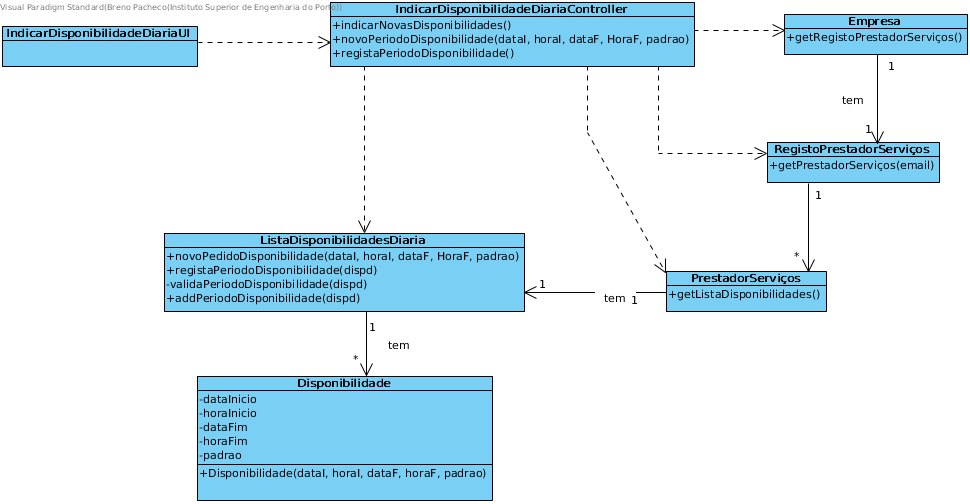
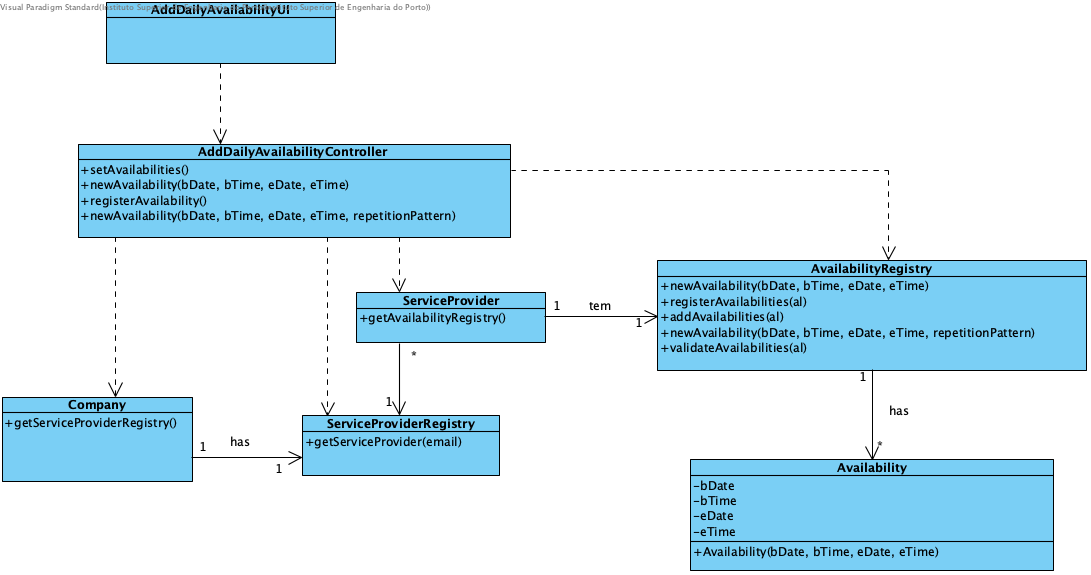
UC wiki documentation complete [UC-09][Documentation]

diff --git a/UseCases/UC9_AddDailyAvailability.md b/UseCases/UC9_AddDailyAvailability.md
@@ -1,0 +1,78 @@
+# UC9 - Add Daily Availability
+
+## Brief Description
+
+The service provider starts identifying his/her daily availability. The system requests the required data (i.e. date/time start and end), and may select predetermined options for repetitions (e.g. daily, weekly, biweekly or monthly). The service provider enters the requested data. The system validates and presents the data to the service provider for confirmation. The service provider confirms. The system records the availability of the service provider and informs the service provider of the success of the operation.
+
+## SSD
+![SSD_UC9_IT3.png](SSD_UC9_IT3.png)
+
+## Full Description
+
+### Primary Actor
+
+Service provider
+
+### Stakeholders and their interests
+* **Service provider:** is intended to indicate daily availability to perform services.
+* **Company:** wants the daily availability of service providers to be specified in the system.
+
+
+### Preconditions
+n/a
+
+### Postconditions
+Information about the daily availability of the service provider is recorded in the system.
+
+## Main Success Scenario
+
+1. The service provider initiates the identification of their daily availability.
+2. The system requests a period (start date/time and end date/time) in which the service provider is available to perform services, and may choose predetermined options for repetitions (e.g. daily, weekly, biweekly or monthly).
+3. The service provider enters the requested data.
+4. The system validates and displays the data for confirmation.
+5. The service provider confirms.
+6. The system records the availability period of the service provider and informs the service provider of the success of the operation.
+7. Steps 2 to 6 shall be repeated until the service provider has indicated all his availabilities.
+
+
+### Exception conditions (alternative flow)
+
+*a. The service provider requests the cancellation of the hourly availability indication.
+
+> The use case ends.
+
+4a. Data that identifies the availability period is incomplete.
+> 1. The system informs you of missing data.
+> 2. The system allows the missing data to be entered (step 3)
+>
+> 2a. The service provider does not change the data. The use case ends.
+
+4b. The system detects that the entered data (or some subset of the data) is invalid.
+> 1. The system alerts the service provider to the fact.
+> 2. The system allows you to change it (step 3).
+>
+> 2a. The service provider does not change the data. The use case ends.
+
+4c. The system detects that the indicated availability overlaps (i.e., intercept) with another availability indicated above.
+> 1. The system alerts the service provider to the fact.
+> 2. The system allows you to change it (step 3)
+>
+> 2a. The service provider does not change the data. The use case ends.
+
+
+
+### Special Requirements
+\-
+
+### Variations in Technologies and Data
+\-
+
+### Frequency of Occurrence
+\-
+
+### Open questions
+
+* Should the service provider indicate the daily availability for each type of service?
+* How is the date and time validated? Are there limitations related to the day of the week and working hours (eg 8 am to 6 pm)?
+* If the availabilities indicated adopt a standard, which one should be used (eg daily, weekly, monthly)?
+* How often does this use case occur?

diff --git a/Design/UC9_AddDailyAvailability.md b/Design/UC9_AddDailyAvailability.md
@@ -1,0 +1,41 @@
+# Realization of UC9 - Add Daily Availability
+
+## Rational
+
+| Fluxo Principal                                                                                        | Question: Which Class...                                      | Resposta                                       | Justification                                                                                                         |
+|:-------------------------------------------------------------------------------------------------------|:------------------------------------------------------------|:-----------------------------------------------|:---------------------------------------------------------------------------------------------------------------------|
+| 1. The service provider initiates the identification of their daily availability. | ... interacts with the user? | AddAvailabilityUI | Pure Fabrication |
+|| ... coordinates the UC? | AddAvailabilityController | Controller |
+|| ... create/instance Availability? | ServiceProvider | Creator (rule 2). In the DM Service Provider has several Availability |
+|| ... who knows the class ServiceProvider? | ServiceProviderRegistry | HC + LC |
+|| ... who knows the class ServiceProviderRegistry? | Company | HC + LC |
+||... stores daily availabilities? | AvailabilityRegistry | IE |
+| 2. The system requests a period (starting date/time and ending datetime) where the service provider is available to perform services. |||
+| 3. The service provider enters the requested data. |... save the entered data?| Availability | Information Expert (IE) - instance created in step 1 |
+| 4. The system validates and displays the data for confirmation. | ... validates the entered data (global validation) | AvailabilityRegistry |IE|
+| 5. The service provider confirms.||||
+| 6. The system saves the availability period and informs the service provider of the success of the operation. ||||
+| 7. Steps 2 to 6 are repeated until the availability of the service provider is identified.||||
+
+## Systematization ##
+
+From the rational it results that the conceptual classes promoted to classes of software are:
+
+ * Company
+ * ServiceProvider
+ * Availability
+ * AvailabilityRegistry
+
+Other software classes (i.e. Pure Fabrication) identified:
+
+ * AddAvailabilityUI
+ * AddAvailabilityController
+
+##	Sequence Diagram
+
+![SD_UC9_IT3.png](SD_UC9_IT3.png)
+
+
+##	Class Diagram
+
+![CD_UC9_IT3.png](CD_UC9_IT3.png)
